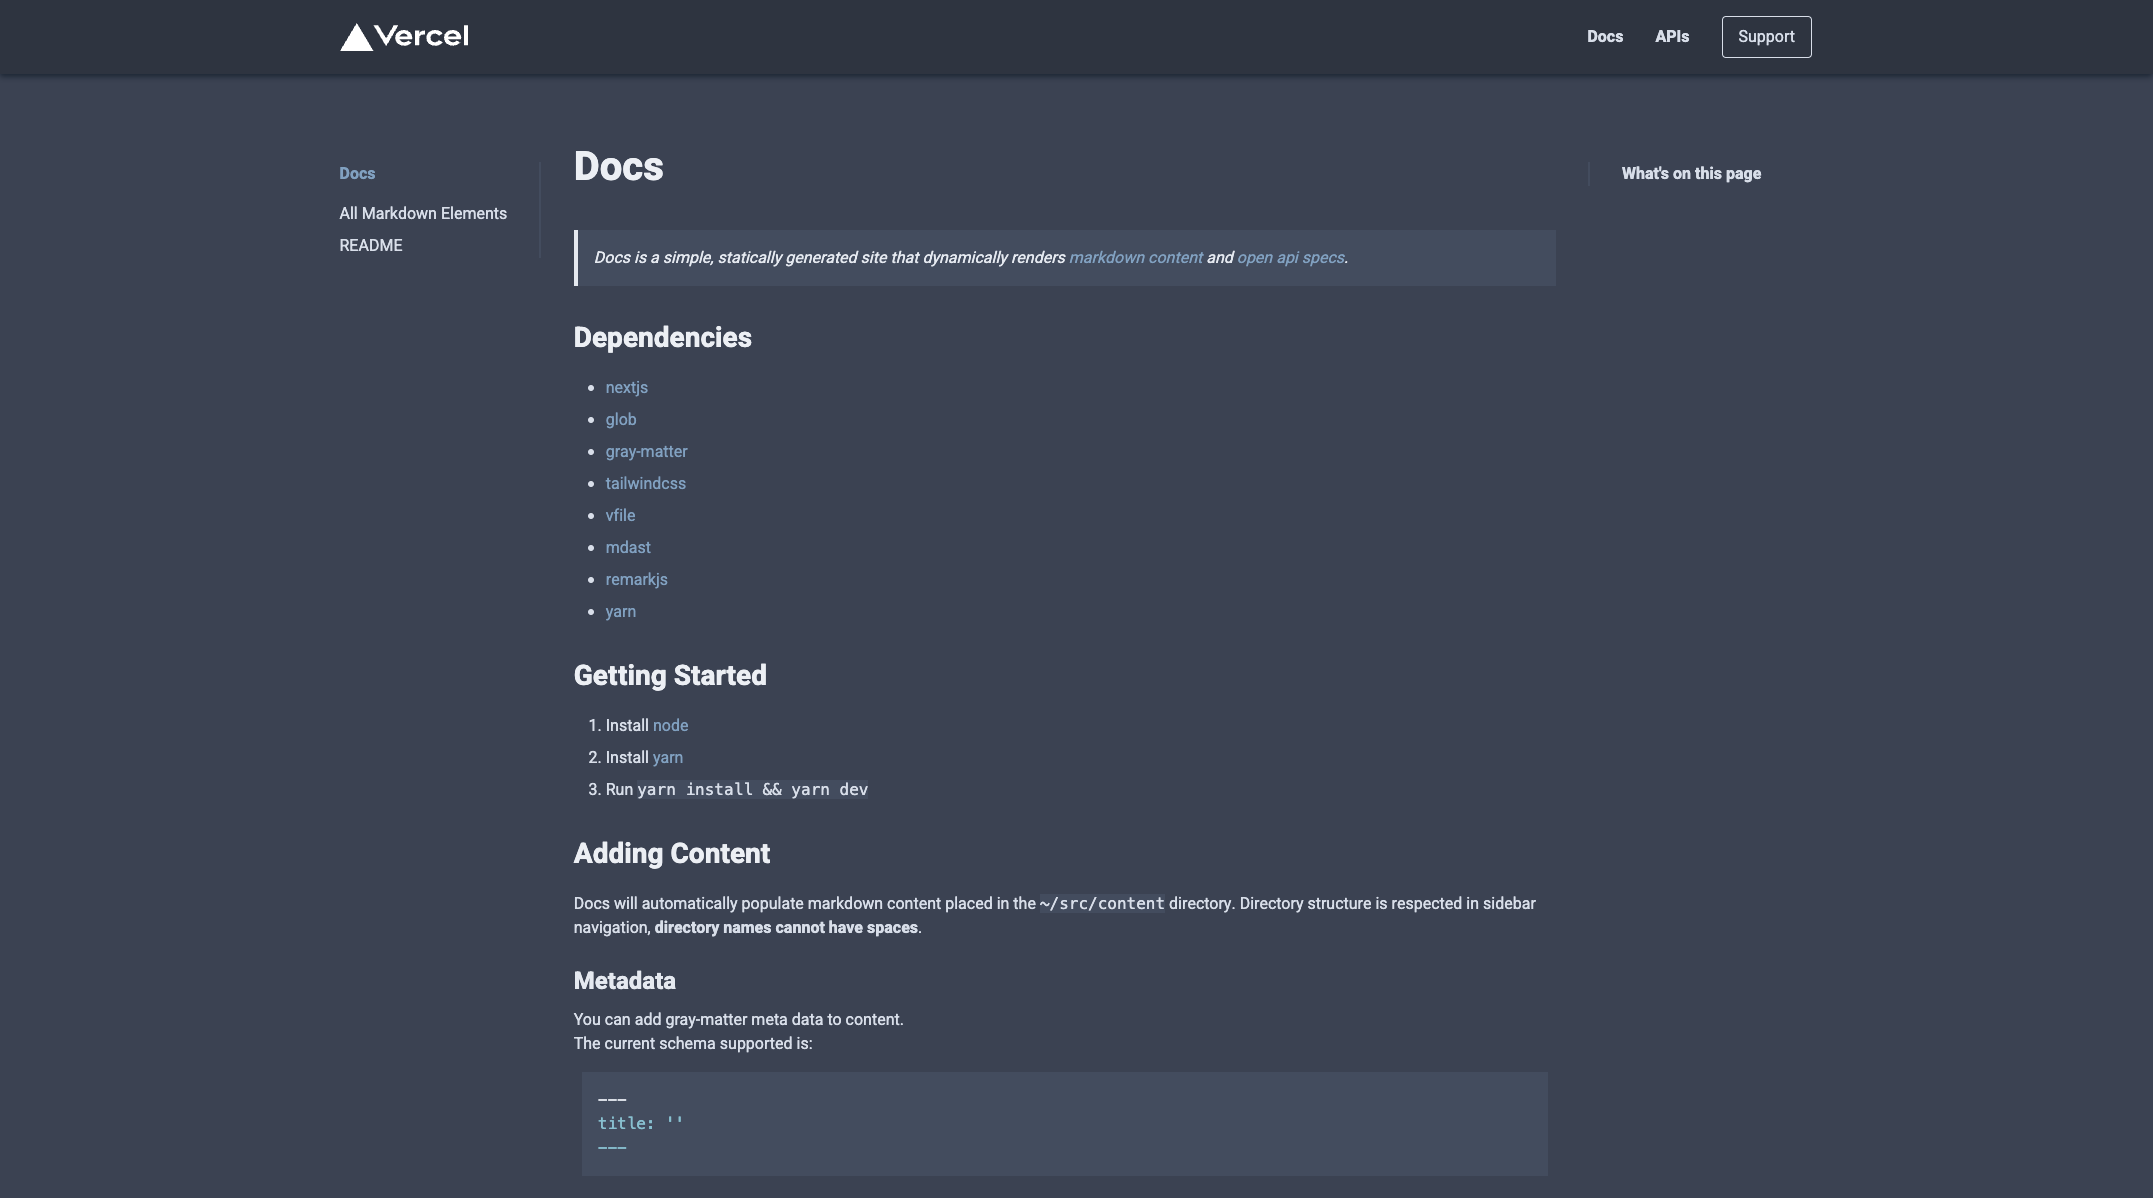
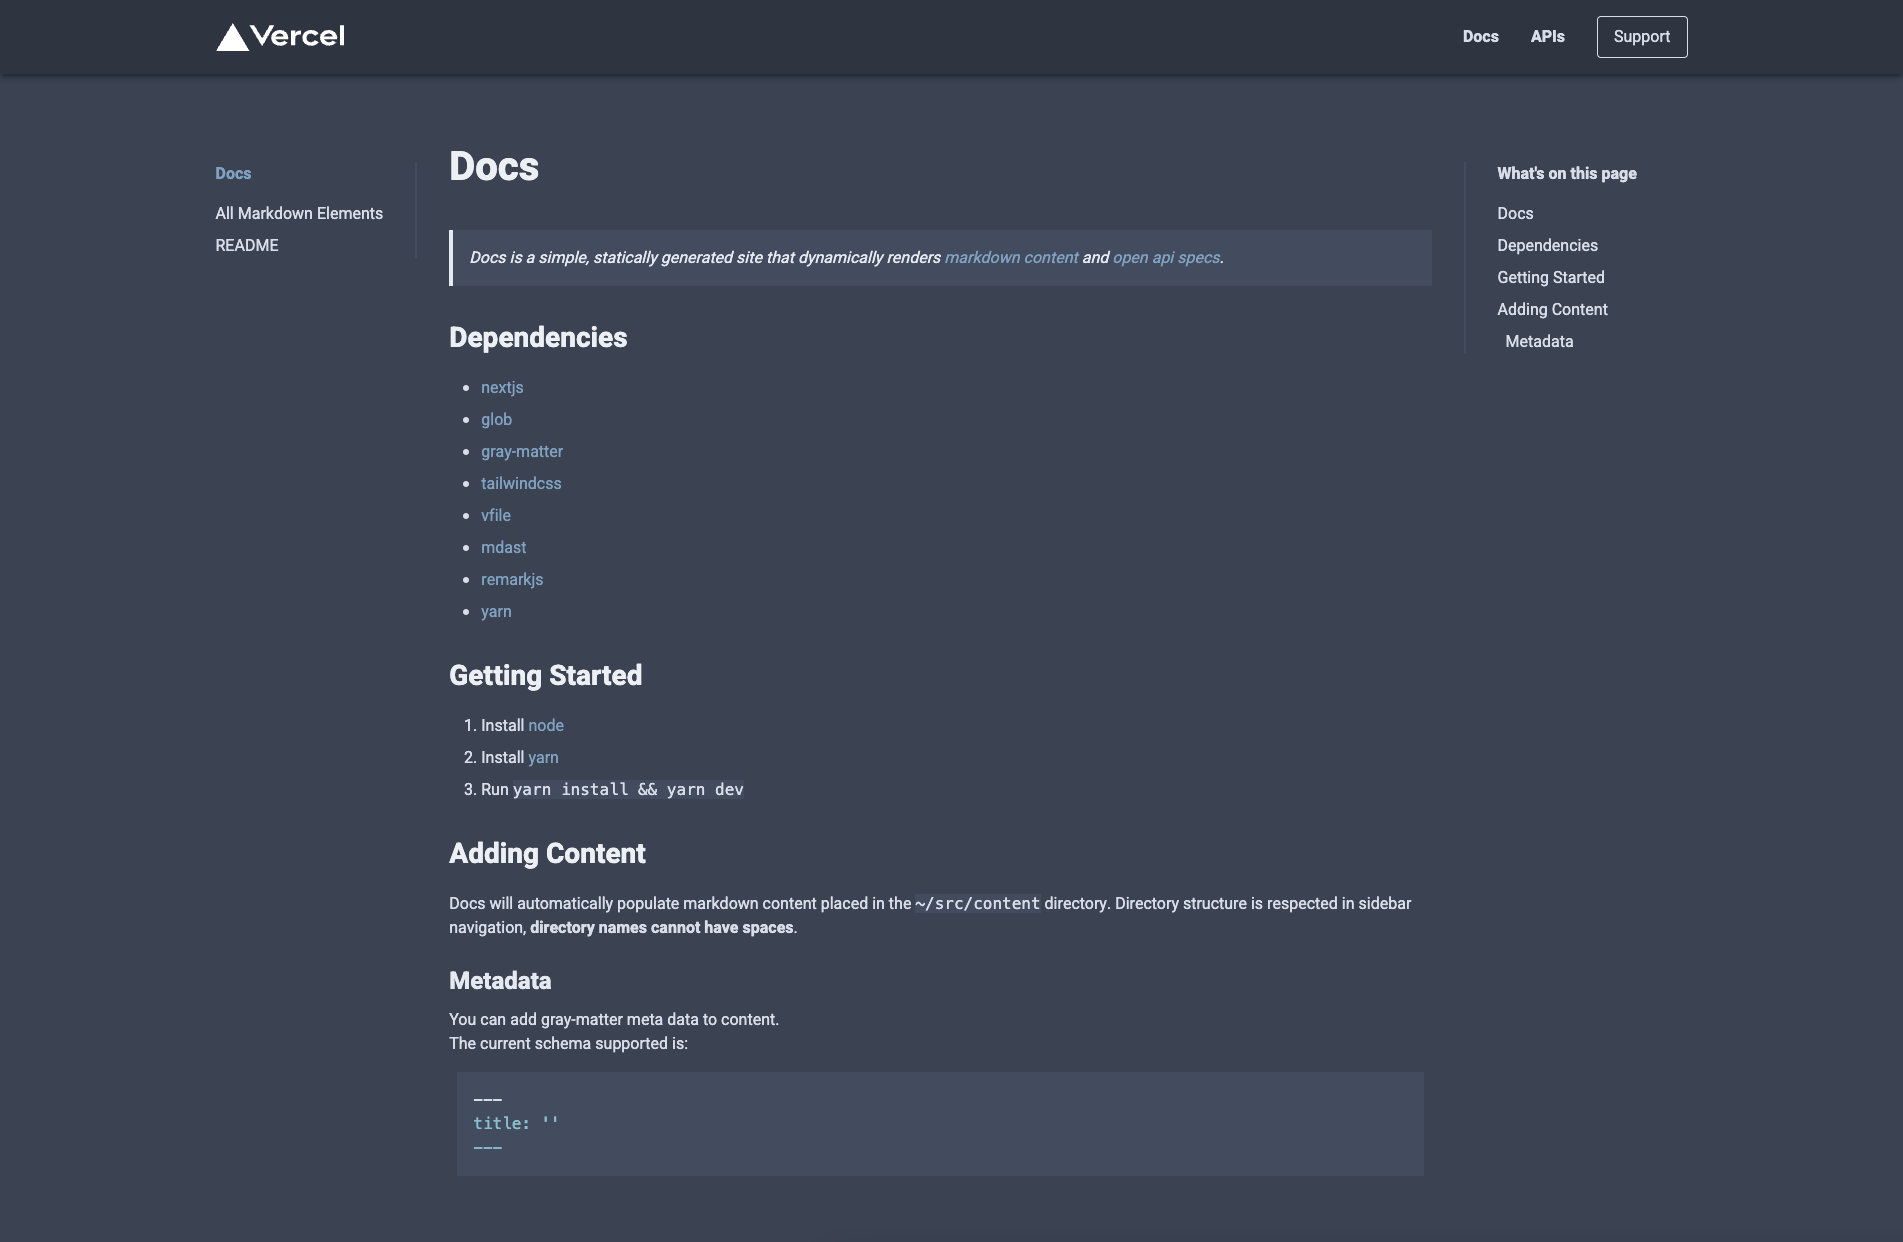
fix indexer

diff --git a/src/components/markdown/article.tsx b/src/components/markdown/article.tsx
@@ -3,17 +3,17 @@ import { ReactNode } from "react";
 
 const maxHeadingsDepth: number = 6;
 
-export default async function MarkdownArticle({ content, metaData }: MarkdownData) {
+export default async function MarkdownArticle({ content, metadata }: MarkdownData) {
   const indexNavTitle = "What's on this page";
   const renderChildren = (index: MarkdownIndex[], depth: number = 0): ReactNode => {
-    return index.map((section: MarkdownIndex) =>
+    return index.map((node: MarkdownIndex) =>
       (
-        <div key={section.data.hProperties.id}>
+        <div key={node.data.hProperties.id}>
           <div className={`nav-${depth}`}>
-            <a href={`#${section.data.hProperties.id}`}>{section.value}</a>
+            <a href={`#${node.data.hProperties.id}`}>{node.value}</a>
           </div>
-          {section.children?.length > 0 && section.depth < maxHeadingsDepth
-            ? renderChildren(section.children, depth + 1)
+          {node.children?.length > 0 && node.depth < maxHeadingsDepth
+            ? renderChildren(node.children, depth + 1)
             : ""}
         </div>
       ));
@@ -29,7 +29,7 @@ export default async function MarkdownArticle({ content, metaData }: MarkdownDat
           <div className="mb-4">
             <b>{indexNavTitle}</b>
           </div>
-          {renderChildren(metaData.index)}
+          {renderChildren(metadata.index)}
         </section>
       </nav>
     </>

diff --git a/src/app/page.tsx b/src/app/page.tsx
@@ -1,29 +1,27 @@
 import Sidebar from "@/components/sidebar";
 import Footer from "@/components/footer";
-import {getDoc, getDocs} from "@/lib/docs";
+import { getDoc, getDocs } from "@/lib/docs";
 import MarkdownArticle from "@/components/markdown/article";
-import Image from "next/image";
 
 export default async function Home() {
-  const mdFiles = await getDocs();
   const filename = "example";
   const docs = await getDocs();
   const doc = await getDoc(filename);
-  const file = doc?.mdFile;
+  const article = doc?.mdFile;
   return (
     <div className="flex max-w-screen-2xl px-8 justify-between">
       <aside className="flex h-screen sticky top-0 pt-8">
-        <Sidebar mdFiles={mdFiles} />
+        <Sidebar mdFiles={docs} />
       </aside>
       <div className="pl-8">
         <article className="flex pt-8">
           {
-            file
+            article
               ? <MarkdownArticle
-                fileName={file.fileName}
-                matter={file.matter}
-                content={file.content}
-                metaData={file.metaData} />
+                fileName={article.fileName}
+                matter={article.matter}
+                content={article.content}
+                metadata={article.metadata} />
               : "Article Not Found"
           }
         </article>

diff --git a/src/app/docs/[...slug]/page.tsx b/src/app/docs/[...slug]/page.tsx
@@ -2,7 +2,6 @@ import MarkdownArticle from "@/components/markdown/article";
 import { getDoc, getDocs } from "@/lib/docs";
 import Sidebar from "@/components/sidebar";
 import Footer from "@/components/footer";
-import Image from "next/image";
 
 export default async function Page(props: any) {
   const filename = props.params.slug.join('/');
@@ -22,7 +21,7 @@ export default async function Page(props: any) {
                 fileName={file.fileName}
                 matter={file.matter}
                 content={file.content}
-                metaData={file.metaData} />
+                metadata={file.metadata} />
               : "Article Not Found"
           }
         </article>

diff --git a/src/lib/markdown.ts b/src/lib/markdown.ts
@@ -19,7 +19,7 @@ export type MarkdownData = {
   fileName: string,
   matter: {[p: string]: any},
   content: string,
-  metaData: MarkdownMeta,
+  metadata: MarkdownMeta,
 };
 
 export interface MarkdownParams {
@@ -43,7 +43,7 @@ export default async function ProcessMarkdownFile(fileName: string) {
       fileName: fileName,
       matter: matterResult.data,
       content: content.toString(),
-      metaData: content.data as MarkdownMeta,
+      metadata: content.data as MarkdownMeta,
   };
   return mdData;
 };

diff --git a/src/lib/article-indexer.ts b/src/lib/article-indexer.ts
@@ -25,7 +25,7 @@ function getIndex(root: Root) {
   const nodes: {id: number, data: {}} = {id: -1, data: {}};
   const output: TransformNodeOutput[] = [];
   const indexMap: IndexMap = {};
-  visit(root, "index", (node) => {
+  visit(root, "heading", (node) => {
     addID(node, nodes);
     transformNode(node, output, indexMap);
   });
